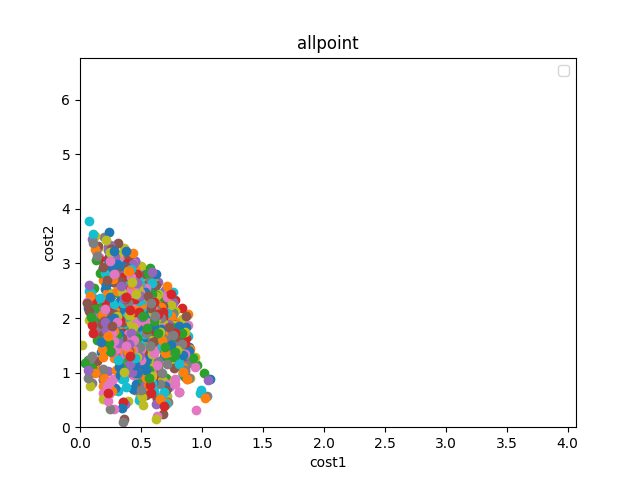
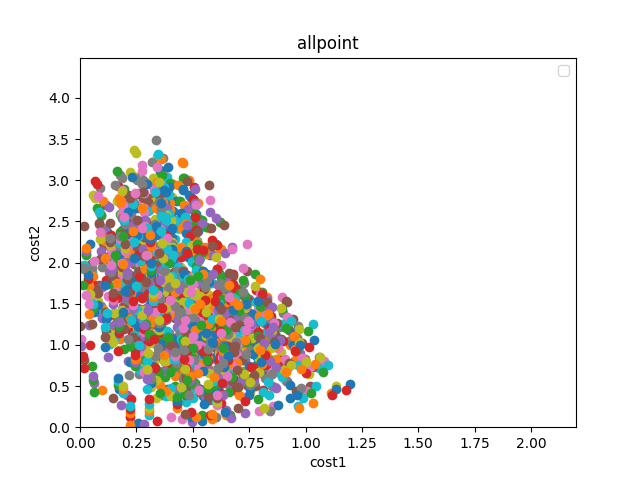
修改繪圖的x,y軸數量

diff --git a/plot/graph.py b/plot/graph.py
@@ -49,8 +49,8 @@ def graph_2d_1(name, x=0.0, y=0.0):
     fig, ax = plt.subplots()
     plt.xlabel("cost1")
     plt.ylabel("cost2")
-    plt.xlim(0, mx_x + 3)
-    plt.ylim(0, mx_y + 3)
+    plt.xlim(0, mx_x + 1)
+    plt.ylim(0, mx_y + 1)
     ax.set_title(str(name[:-4]))
     for x, y in point:
         ax.scatter(x, y)

diff --git a/code/parameter.cpp b/code/parameter.cpp
@@ -1,6 +1,6 @@
 
 /*   hyperparameter   */
-double threshold = 0.8;      // fidelity threshold
+double threshold = 0.7;      // fidelity threshold
 double fiber_distance = 250; // fiber的極限傳輸距離
 double beta =
     0.00438471; // 算fidelity - distance的beta參數，會根據fiber極限距離計算
